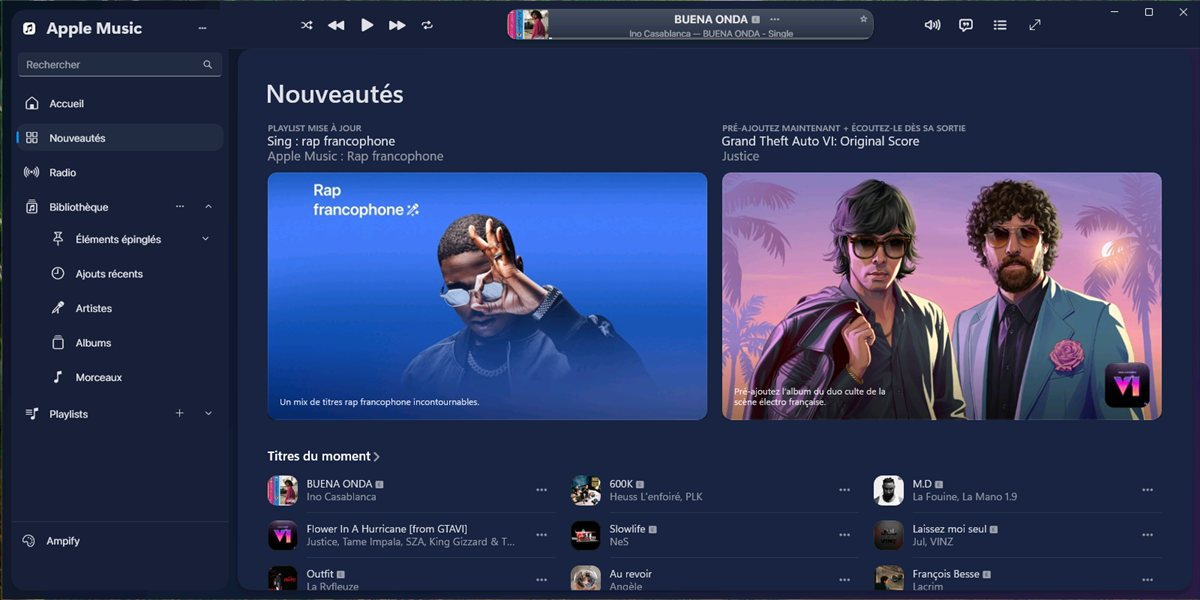
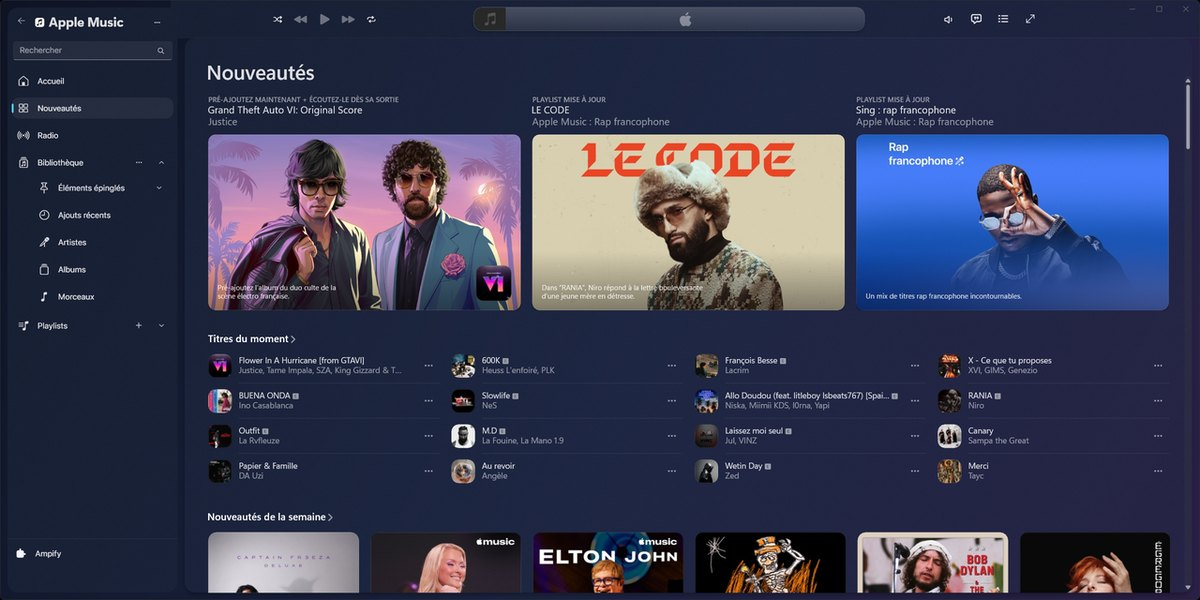
feat: add previews and French labels to the themes
Every theme gets a preview captured on the New Releases page, with the
bottom bar shown where a theme has one. The new themes translate their
setting labels and options into French.

Also in this change: fit extension panels to the theme.

diff --git a/src/win/ui_service.cpp b/src/win/ui_service.cpp
@@ -1162,17 +1162,30 @@ struct ContentArea {
     double height = 0;  // 0: down to the bottom edge of the window
 };
 
+// Where a named element of Apple Music's window lies, in the window's coordinates; nothing while it is not laid out.
+std::optional<winrt::Windows::Foundation::Rect> NamedBounds(const WindowContext& context, std::string_view name) {
+    std::optional<int> index = uirender::FindByName(context.probe, name);
+    if (!index || *index >= static_cast<int>(context.probeObjects.size())) return std::nullopt;
+    auto element = context.probeObjects[*index].get().try_as<xaml::FrameworkElement>();
+    if (!element || element.ActualWidth() <= 0 || element.ActualHeight() <= 0) return std::nullopt;
+    auto origin = element.TransformToVisual(nullptr).TransformPoint({0, 0});
+    return winrt::Windows::Foundation::Rect{origin.X, origin.Y, static_cast<float>(element.ActualWidth()),
+                                            static_cast<float>(element.ActualHeight())};
+}
+
+// The bottom of the strip at the window's top that holds its buttons and takes the drags, 0 when it is not found.
+double TitlebarBottom(const WindowContext& context) noexcept {
+    try {
+        if (auto titlebar = NamedBounds(context, "Titlebar")) return titlebar->Y + titlebar->Height;
+    } catch (...) {
+        // Leaving the tree while it is measured: the next refresh places the panels again.
+    }
+    return 0;
+}
+
 ContentArea FindContentArea(const WindowContext& context, double windowHeight) {
     ContentArea area;
-    auto bounds = [&context](std::string_view name) -> std::optional<winrt::Windows::Foundation::Rect> {
-        std::optional<int> index = uirender::FindByName(context.probe, name);
-        if (!index || *index >= static_cast<int>(context.probeObjects.size())) return std::nullopt;
-        auto element = context.probeObjects[*index].get().try_as<xaml::FrameworkElement>();
-        if (!element || element.ActualWidth() <= 0 || element.ActualHeight() <= 0) return std::nullopt;
-        auto origin = element.TransformToVisual(nullptr).TransformPoint({0, 0});
-        return winrt::Windows::Foundation::Rect{origin.X, origin.Y, static_cast<float>(element.ActualWidth()),
-                                                static_cast<float>(element.ActualHeight())};
-    };
+    auto bounds = [&context](std::string_view name) { return NamedBounds(context, name); };
     try {
         std::optional<winrt::Windows::Foundation::Rect> bar = bounds("TransportBar");
         if (auto frame = bounds("ContentFrame")) {
@@ -1212,7 +1225,8 @@ void PlacePanelPopup(WindowContext& context, const xaml::XamlRoot& root) {
     ContentArea area = FindContentArea(context, size.Height);
     double bottom = area.height > 0 ? area.top + area.height : static_cast<double>(size.Height);
     double right = area.width > 0 ? area.left + area.width : static_cast<double>(size.Width);
-    double top = area.top + 8;
+    // With the play bar moved down by a theme, the pages reach the window's top, where the window's buttons are.
+    double top = std::max(area.top, TitlebarBottom(context)) + 8;
     double height = std::max(200.0, bottom - top - 16.0);
     double left = std::max(area.left, right - kPanelWidth - 16.0);
     if (context.panelHost.Height() != height) context.panelHost.Height(height);

diff --git a/src/core/theme/theme.cpp b/src/core/theme/theme.cpp
@@ -200,6 +200,17 @@ void DefineAccentControls(Theme& theme, const std::set<std::string>& owned, bool
     }
 }
 
+// Ampify's extension panels and WinUI's flyouts lie over the page in Fluent's grey acrylic, foreign to any theme. An
+// opaque card colour takes its place; a see-through one would let the page show through them.
+void DefineAcrylicSurfaces(Theme& theme, const std::set<std::string>& owned, bool applied) {
+    constexpr const char* kCard = "CardBackgroundFillColorDefaultBrush";
+    std::optional<Argb> card = theme.palette.Find(kCard);
+    if (!card || card->a != 0xFF) return;
+    for (const char* key : {"AcrylicInAppFillColorDefaultBrush", "AcrylicBackgroundFillColorDefaultBrush"}) {
+        DefineDerived(theme, owned, kCard, key, *card, applied);
+    }
+}
+
 // The colours a theme leaves to Ampify, once its own resources.xaml is known.
 void DefineDerivedColors(Theme& theme, bool applied) {
     std::vector<std::string> keys = XamlKeys(theme.resourceDictionary);
@@ -207,6 +218,7 @@ void DefineDerivedColors(Theme& theme, bool applied) {
     DefineAccentStates(theme, owned, applied);
     DefineTextOnAccent(theme, owned, applied);
     DefineAccentControls(theme, owned, applied);
+    DefineAcrylicSurfaces(theme, owned, applied);
 }
 
 // A Spicetify colour: a $name, a --spice-name variable as in Spicetify, and the app brushes that play its part

diff --git a/tests/theme_tests.cpp b/tests/theme_tests.cpp
@@ -977,6 +977,21 @@ TEST_CASE(Theme_ControlsFollowTheAccent) {
     CHECK(ResourceValue(own, "HyperlinkButtonForeground") == "#FF0A84FF");  // no accent text colour: the accent
 }
 
+TEST_CASE(Theme_AcrylicSurfacesTakeTheCardColour) {
+    MemoryFiles files;
+    files.files["colors.ini"] = "[Solid]\nCardBackgroundFillColorDefaultBrush = 141B2E\n\n"
+                                "[Clear]\nCardBackgroundFillColorDefaultBrush = 80141B2E\n";
+
+    // Ampify's panels and WinUI's flyouts lie over the page in Fluent's grey acrylic: an opaque card colour takes over.
+    th::Theme solid = Load(files, {"Solid", nullptr, {}});
+    CHECK(ResourceValue(solid, "AcrylicInAppFillColorDefaultBrush") == "#FF141B2E");
+    CHECK(ResourceValue(solid, "AcrylicBackgroundFillColorDefaultBrush") == "#FF141B2E");
+
+    // A see-through card would let the page show through a surface that lies over it.
+    th::Theme clear = Load(files, {"Clear", nullptr, {}});
+    CHECK(ResourceValue(clear, "AcrylicInAppFillColorDefaultBrush") == "ABSENT");
+}
+
 TEST_CASE(Spicetify_ThemeRulesWinOverTheTranslatedOnes) {
     MemoryFiles files;
     files.files["color.ini"] = "[Base]\nsidebar = 112233\n";

diff --git a/docs/development/xaml-lessons.md b/docs/development/xaml-lessons.md
@@ -77,6 +77,8 @@ keys into the control's resources works before and after the groups exist.
 | Floating panels: the back arrow sat across the sidebar panel's rounded corner, half on the window | Apple pins `Button#NavigationViewBackButton` to the window's corner (margin 4,0,0,0); the panel starts one gap in | `floating-panels` moves `.back-button` one gap down and in, on the line of the app's name |
 | Bottom bar: the song's artwork flush against the window's left and bottom edges, its placeholder stretched to the bar's height | The display filled its column from the window's edge | `bottom-bar` gives `.now-playing` a gap on the left and 4 above and below: the 54-pixel artwork is square again |
 | Apple's logo over the song's title after leaving a theme that hid it | Apple binds `Image#Apple`'s visibility to what plays, a local value: the engine recorded "Visible" before the theme and wrote it back when the theme went | Hide it by `opacity: 0`, which Apple leaves alone, so the engine clears it instead of restoring a stale value |
+| Extension panels stayed in Fluent's grey under every theme | Their frame reads `AcrylicInAppFillColorDefaultBrush`, which no theme names | The engine derives the acrylic fills from the theme's card colour when it is opaque |
+| Bottom bar: the extension panels covered the window's buttons | With the play bar moved down, the pages, and the panels placed by them, reach the window's top | The panels start under `Border#Titlebar` |
 | Floating panels: the sidebar's More button (`···`) stopped opening its menu, and nothing in the top 64 pixels took a click | `Border#Titlebar` lies over the top of the whole window. Apple's own brush lets clicks through; a colour written by a theme, even transparent, catches them | The layout leaves `.titlebar` alone; `docs/themes/names.md` tells creators to do the same |
 
 Names from WinUI templates (`Grid#RootGrid`, `Grid#LayoutRoot`, `Border#Root`, `ContentPresenter#ContentPresenter`) appear
